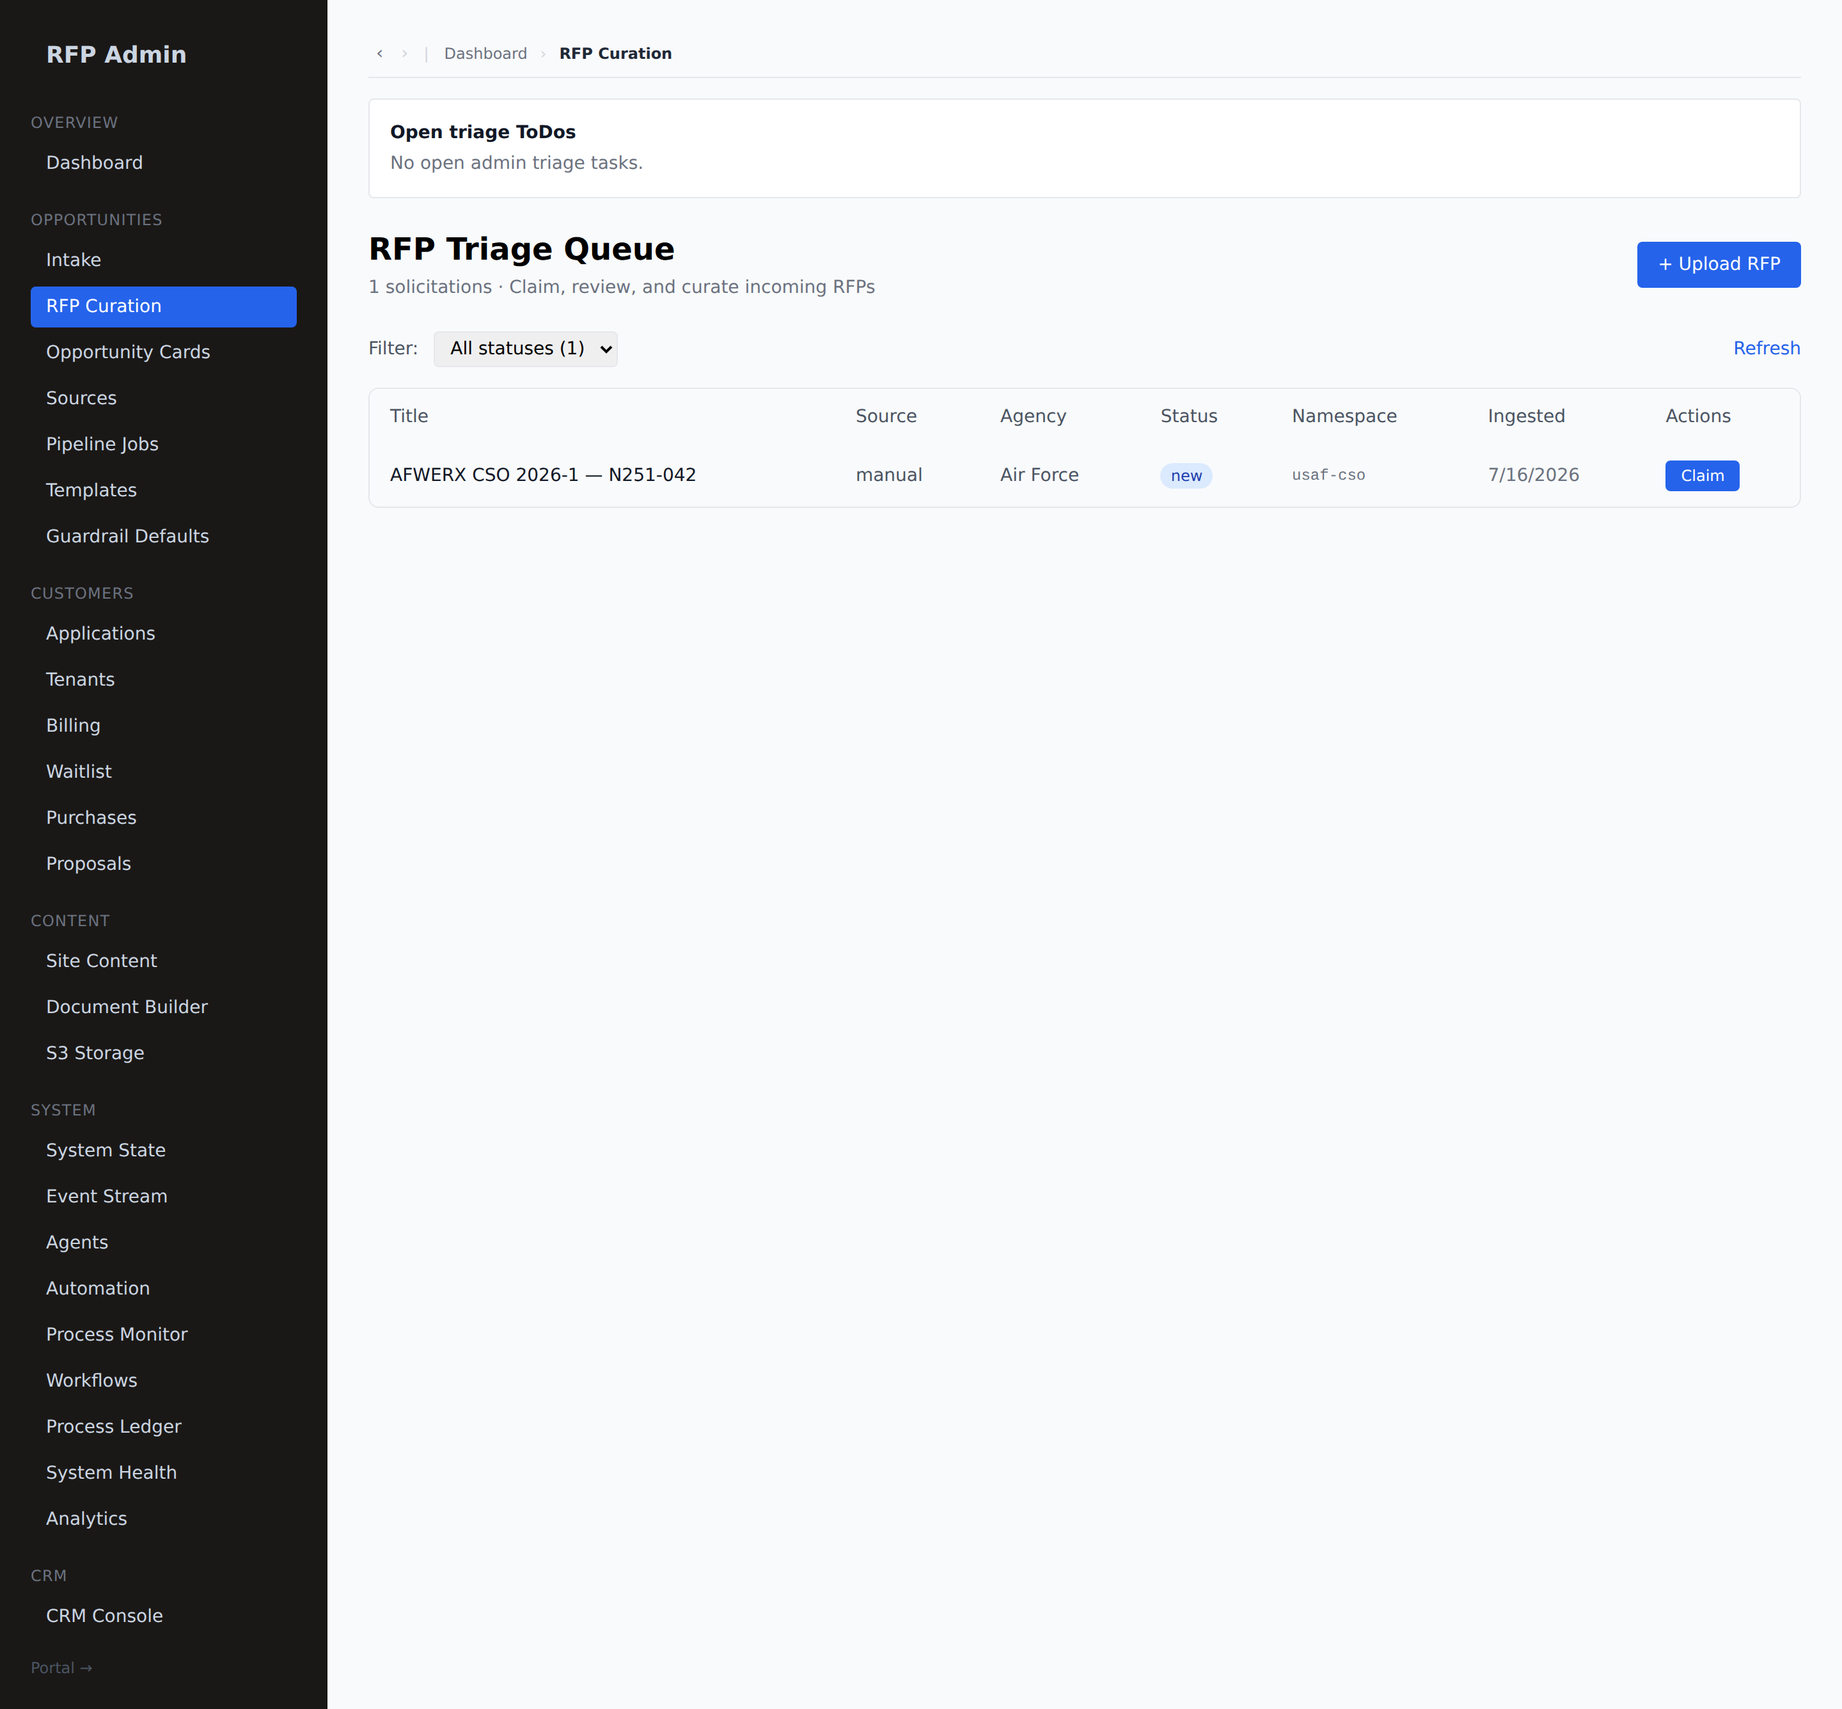
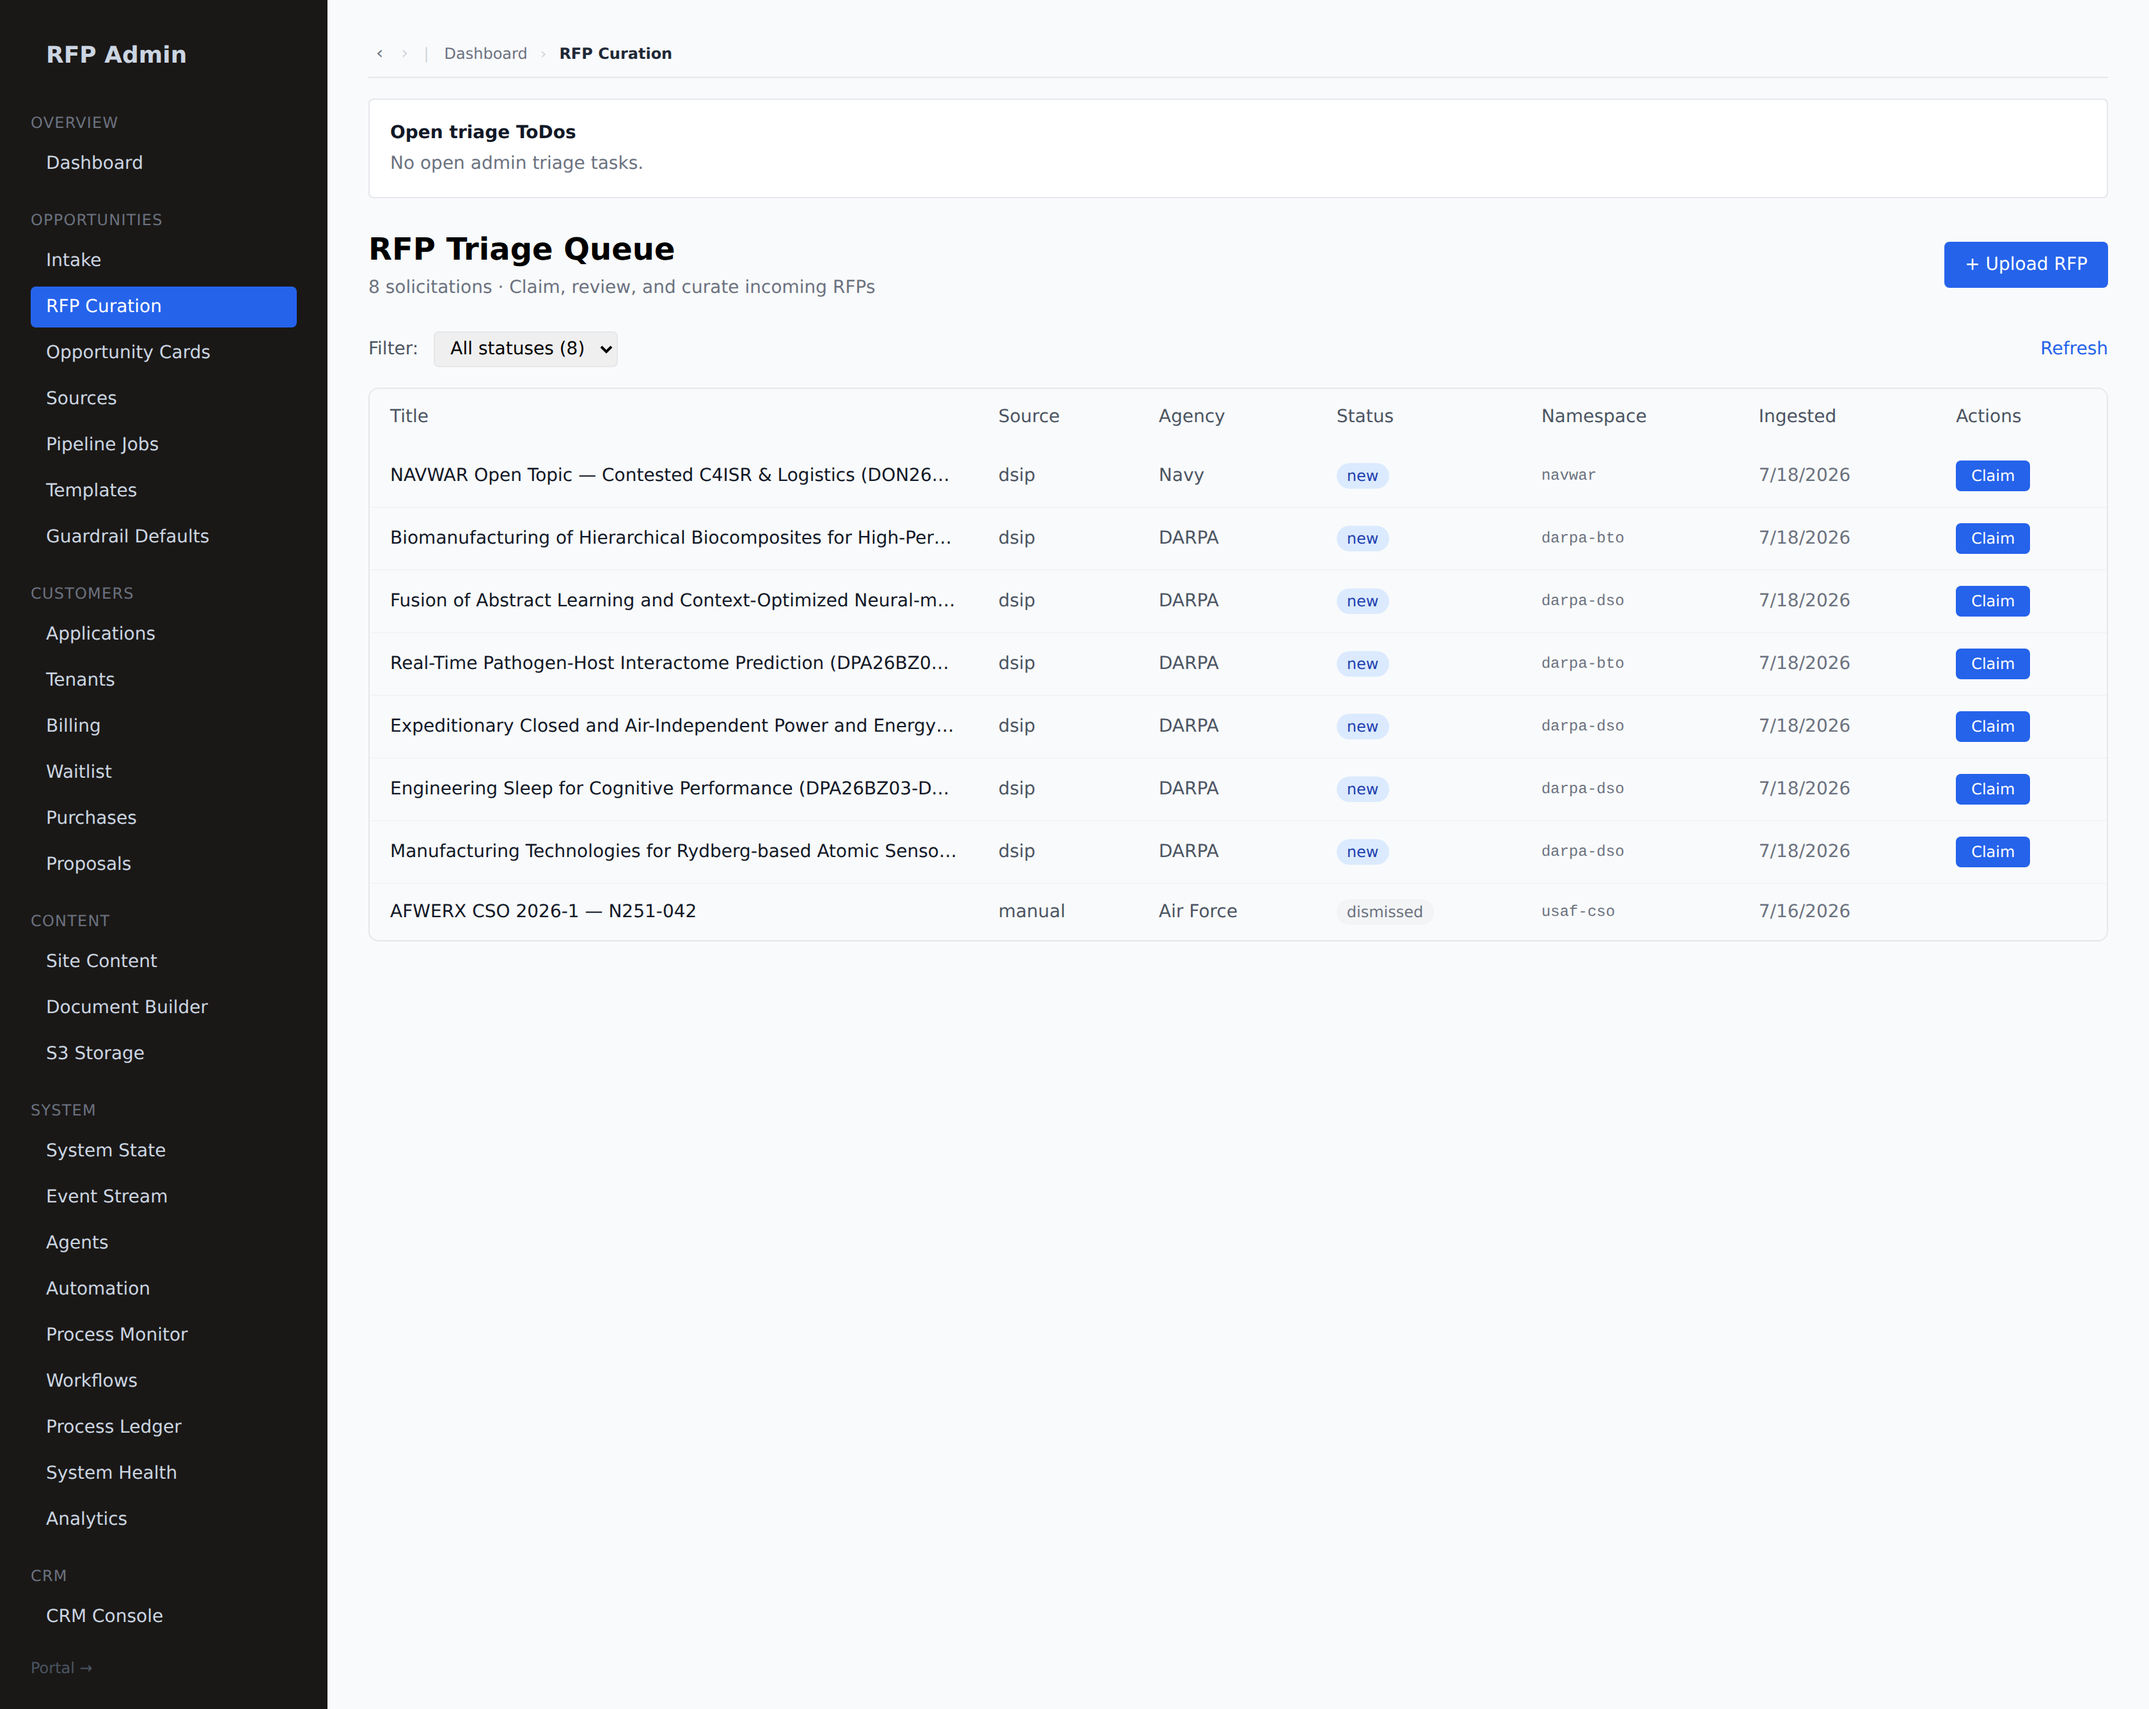
docs: seed real current DoD SBIR (DSIP) opportunities into the demo + refresh spotlight/triage shots
Replace the placeholder/empty opportunity data with REAL current DoD SBIR 2026
(DSIP) topics so the spotlight and admin triage show authentic OPPs.

- scripts/seed-dsip-opps.mts: seeds 7 real FY26 DSIP topics (DARPA DSO/BTO June &
  July 2026 releases — MANTRAS DPA26BZ03-DV011, Engineering Sleep DV012, ExCAIPE
  DV013, Pathogen-Host Interactome DV014, FALCON DPA26BZ04-DV016, Biocomposite
  TIMs DV017 — plus NAVWAR open topic DON26BX01-NP001) as opportunities +
  curated_solicitations, then drives the product's own publishAndFanOut so each
  lands on both the admin triage queue and the tenant spotlight (auto-scored).
  Codes/titles/tech-areas/close-dates verified from public sources
  (dodsbirsttr.mil / darpa.mil). Demo/sandbox only.
- portal-cards.png / admin-rfp-curation.png: re-captured — 7 live DSIP cards in the
  spotlight and 7 DSIP solicitations in the triage queue (stale AFWERX dismissed).
- spotlight-purchase.md / admin-rfp.md / README: text updated to describe the real
  DSIP topics instead of the empty/placeholder state.

Note: direct egress to dodsbirsttr.mil is blocked by org policy, so topic data was
sourced via the approved web tools, not a live API pull.

Claude-Session: https://claude.ai/code/session_014WpKLE6LTPMraFbTacbbBV

diff --git a/docs/user-guides/spotlight-purchase.md b/docs/user-guides/spotlight-purchase.md
@@ -15,16 +15,23 @@ team releases opportunities to your tenant.
 Click **Opportunities** in the left nav. This is your **spotlight** — live
 opportunity cards, ranked by your spotlight buckets.
 
-![The Opportunity Pipeline — ranked cards (shown here before any are released)](./img/portal-cards.png)
+![The Opportunity Pipeline — live DoD SBIR/STTR (DSIP) opportunity cards](./img/portal-cards.png)
 
-Until the RFP team releases opportunities to you, you'll see *"No opportunities
-yet — cards appear here as the RFP team releases opportunities."* Once released,
-each **card** shows the opportunity, its fit summary, and its bucket ranking.
+Each **card** shows the opportunity's title and topic code, its component
+(DARPA, Navy, …), program/phase, and **close date** — plus **Pin (copy docs)** to
+pull its documents local and **Build →** to start a proposal. The cards above are
+real current **DoD SBIR 2026 (DSIP)** topics — DARPA's MANTRAS (Rydberg atomic
+sensors), ExCAIPE (air-independent power), FALCON (ML + LLMs), and a NAVWAR open
+topic, among others.
 
 - **Include closed** toggles closed opportunities in/out.
 - **Refresh** re-pulls the latest.
 - Open **Buckets** (left nav) to see *how* opportunities are scored and ranked for
   your company.
+
+> **New tenant?** Until the RFP team releases opportunities to you, this reads
+> *"No opportunities yet — cards appear here as the RFP team releases
+> opportunities."* Cards populate as the pipeline pushes live topics.
 
 ---
 

diff --git a/docs/user-guides/admin-rfp.md b/docs/user-guides/admin-rfp.md
@@ -31,10 +31,13 @@ Two ways in, both under **Opportunities**:
 
 New solicitations land in the **RFP Triage Queue**.
 
-![The RFP triage queue — incoming solicitations with Claim](./img/admin-rfp-curation.png)
+![The RFP triage queue — live DoD SBIR (DSIP) solicitations awaiting curation](./img/admin-rfp-curation.png)
 
-Each row shows the title, source, agency, status (`new`), namespace, and ingest
-date. Click **Claim** to take a solicitation and open its curation workspace.
+Each row shows the title, **source** (here `dsip`), agency (DARPA, Navy, …),
+status (`new`), namespace, and ingest date. The queue above holds real current
+**DoD SBIR 2026 (DSIP)** topics — DARPA DSO/BTO and NAVWAR releases; a superseded
+notice is shown `dismissed`. Click **Claim** to take a solicitation and open its
+curation workspace.
 
 ---
 

diff --git a/docs/user-guides/README.md b/docs/user-guides/README.md
@@ -173,4 +173,10 @@ via `executablePath` (the project pins a newer Playwright than the cached
 browser), so no `playwright install` is needed.
 
 > **Demo data.** Guides are shot against a seeded demo tenant (**Acme Navy
-> Systems**) so screens are populated. Your real screens show your own data.
+> Systems**) so screens are populated. Your real screens show your own data. The
+> **opportunities are real current DoD SBIR 2026 (DSIP) topics** — DARPA DSO/BTO
+> and NAVWAR FY26 releases (MANTRAS, ExCAIPE, FALCON, …) — seeded via
+> `frontend/scripts/seed-dsip-opps.mts`, which drives the product's own
+> publish→fan-out so they land on both the admin triage queue and the tenant
+> spotlight (auto-scored). Codes/titles/dates verified from public sources
+> (dodsbirsttr.mil / darpa.mil).
